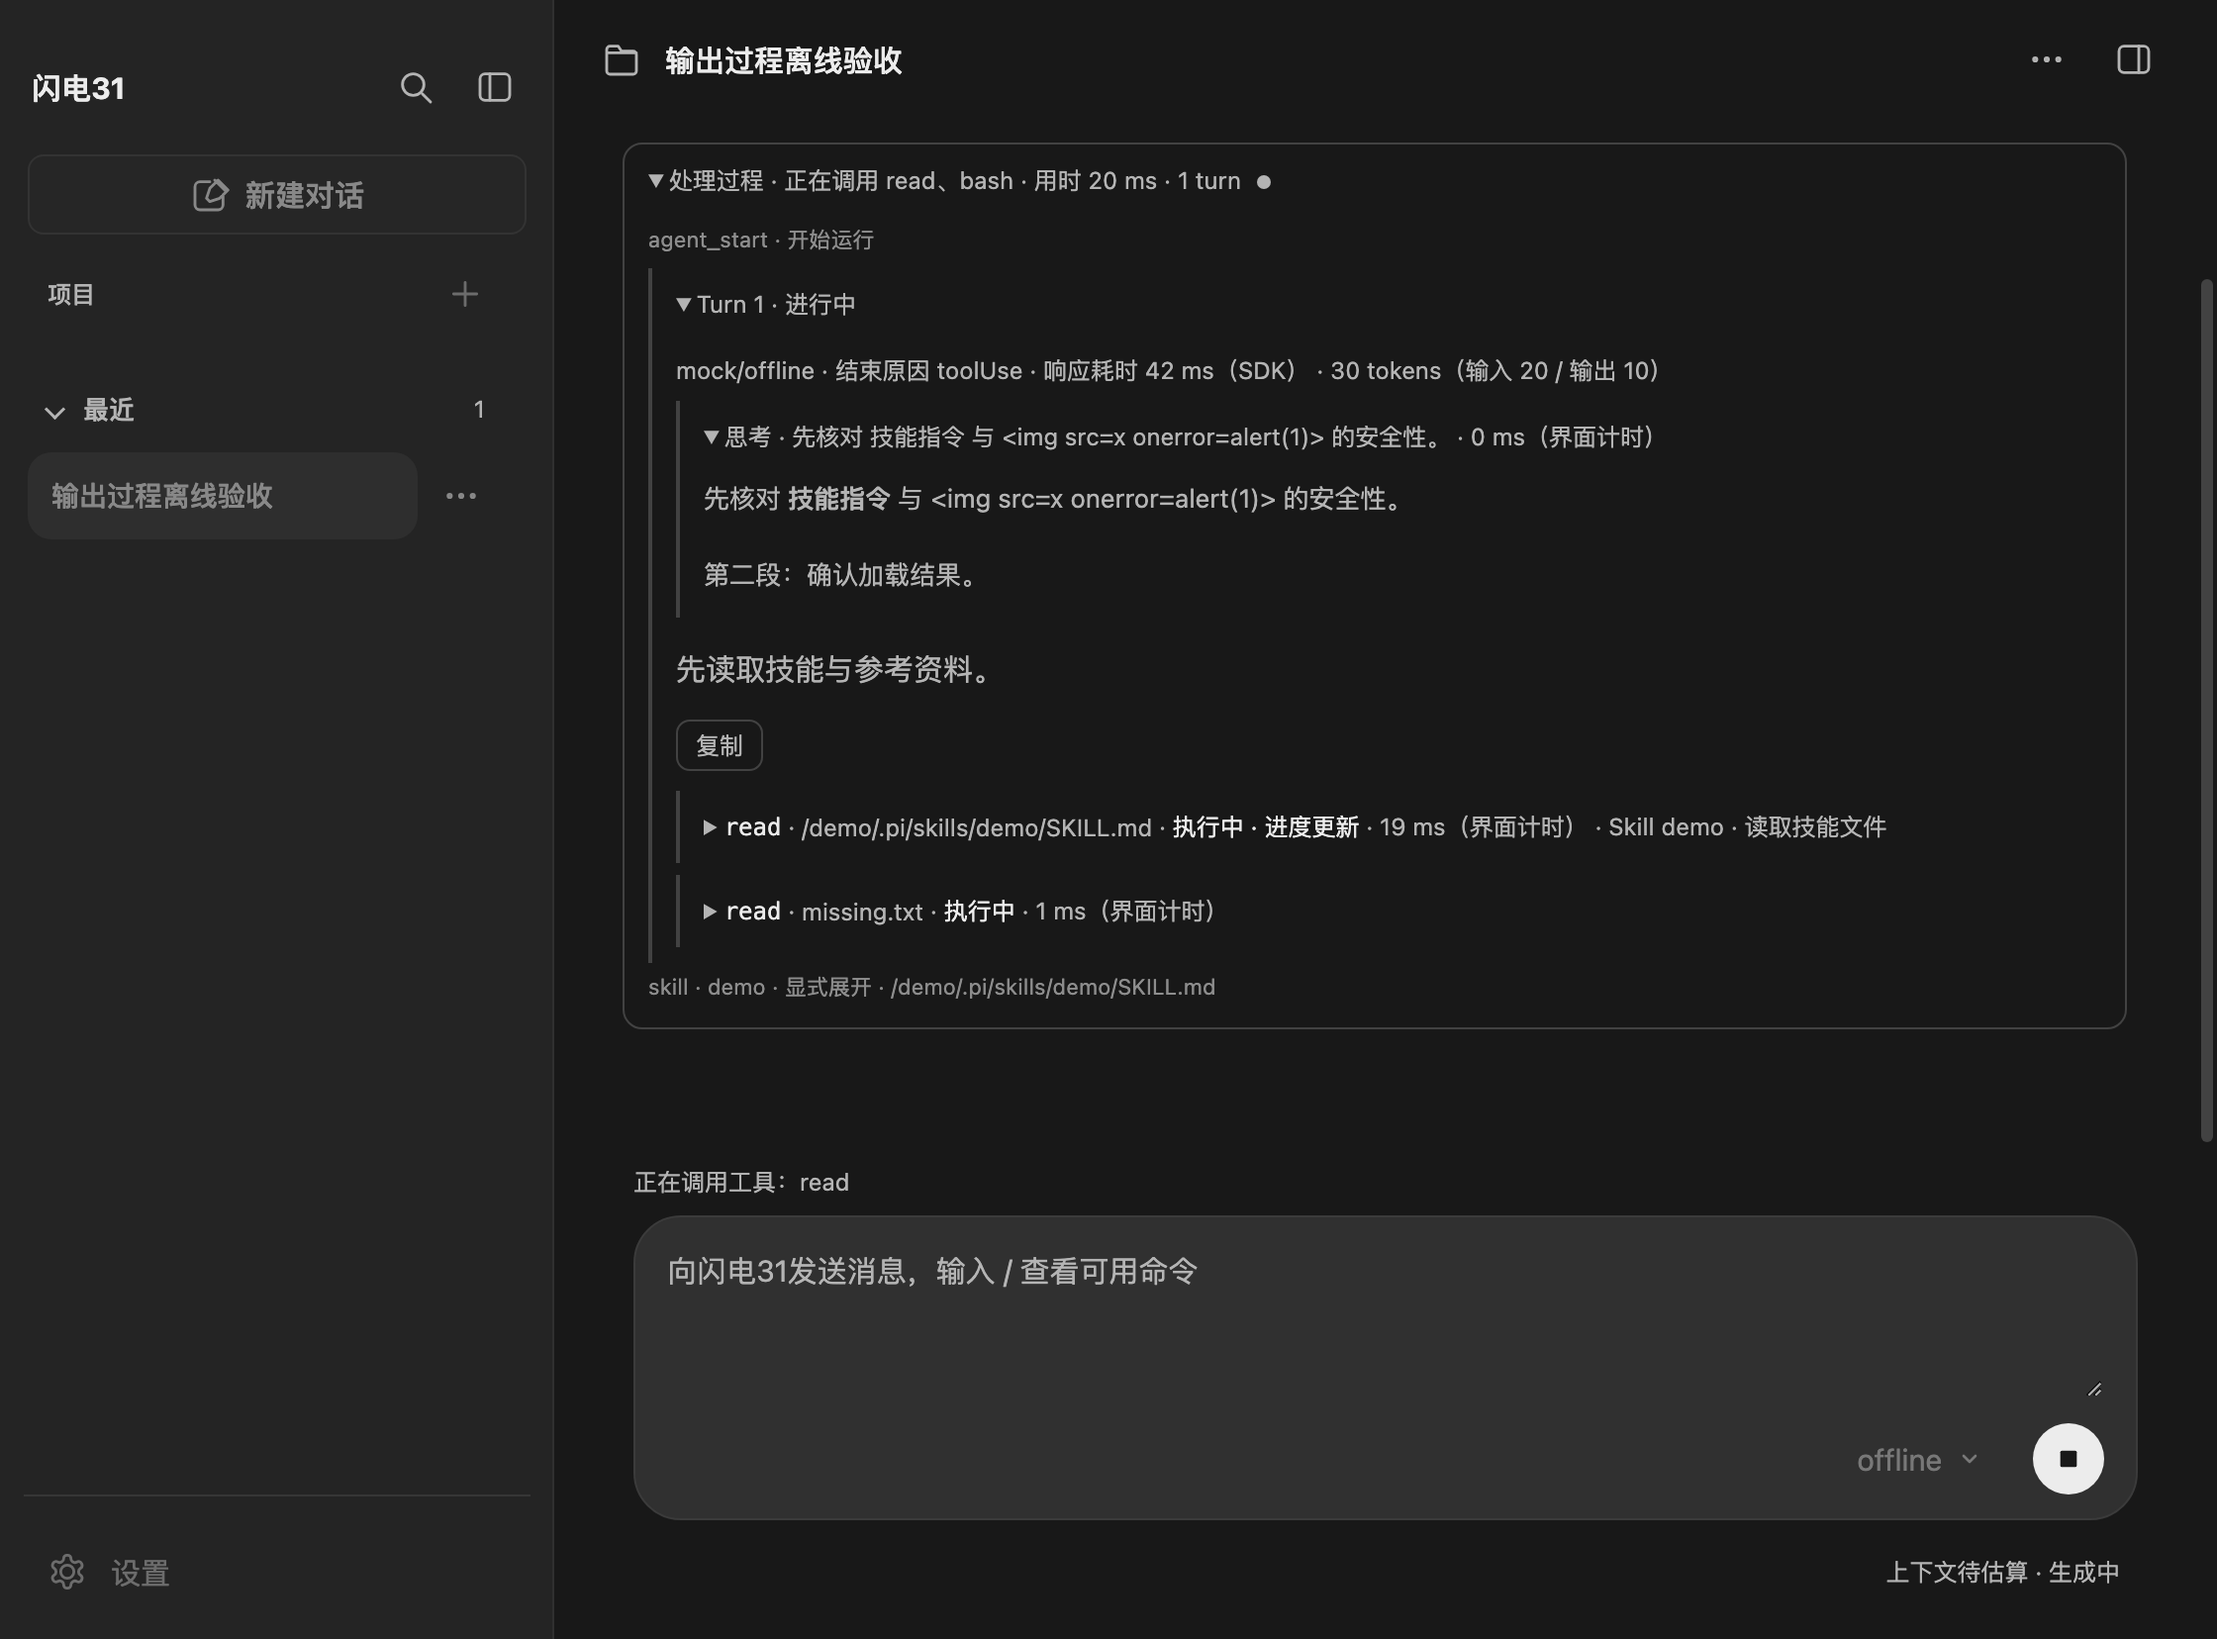
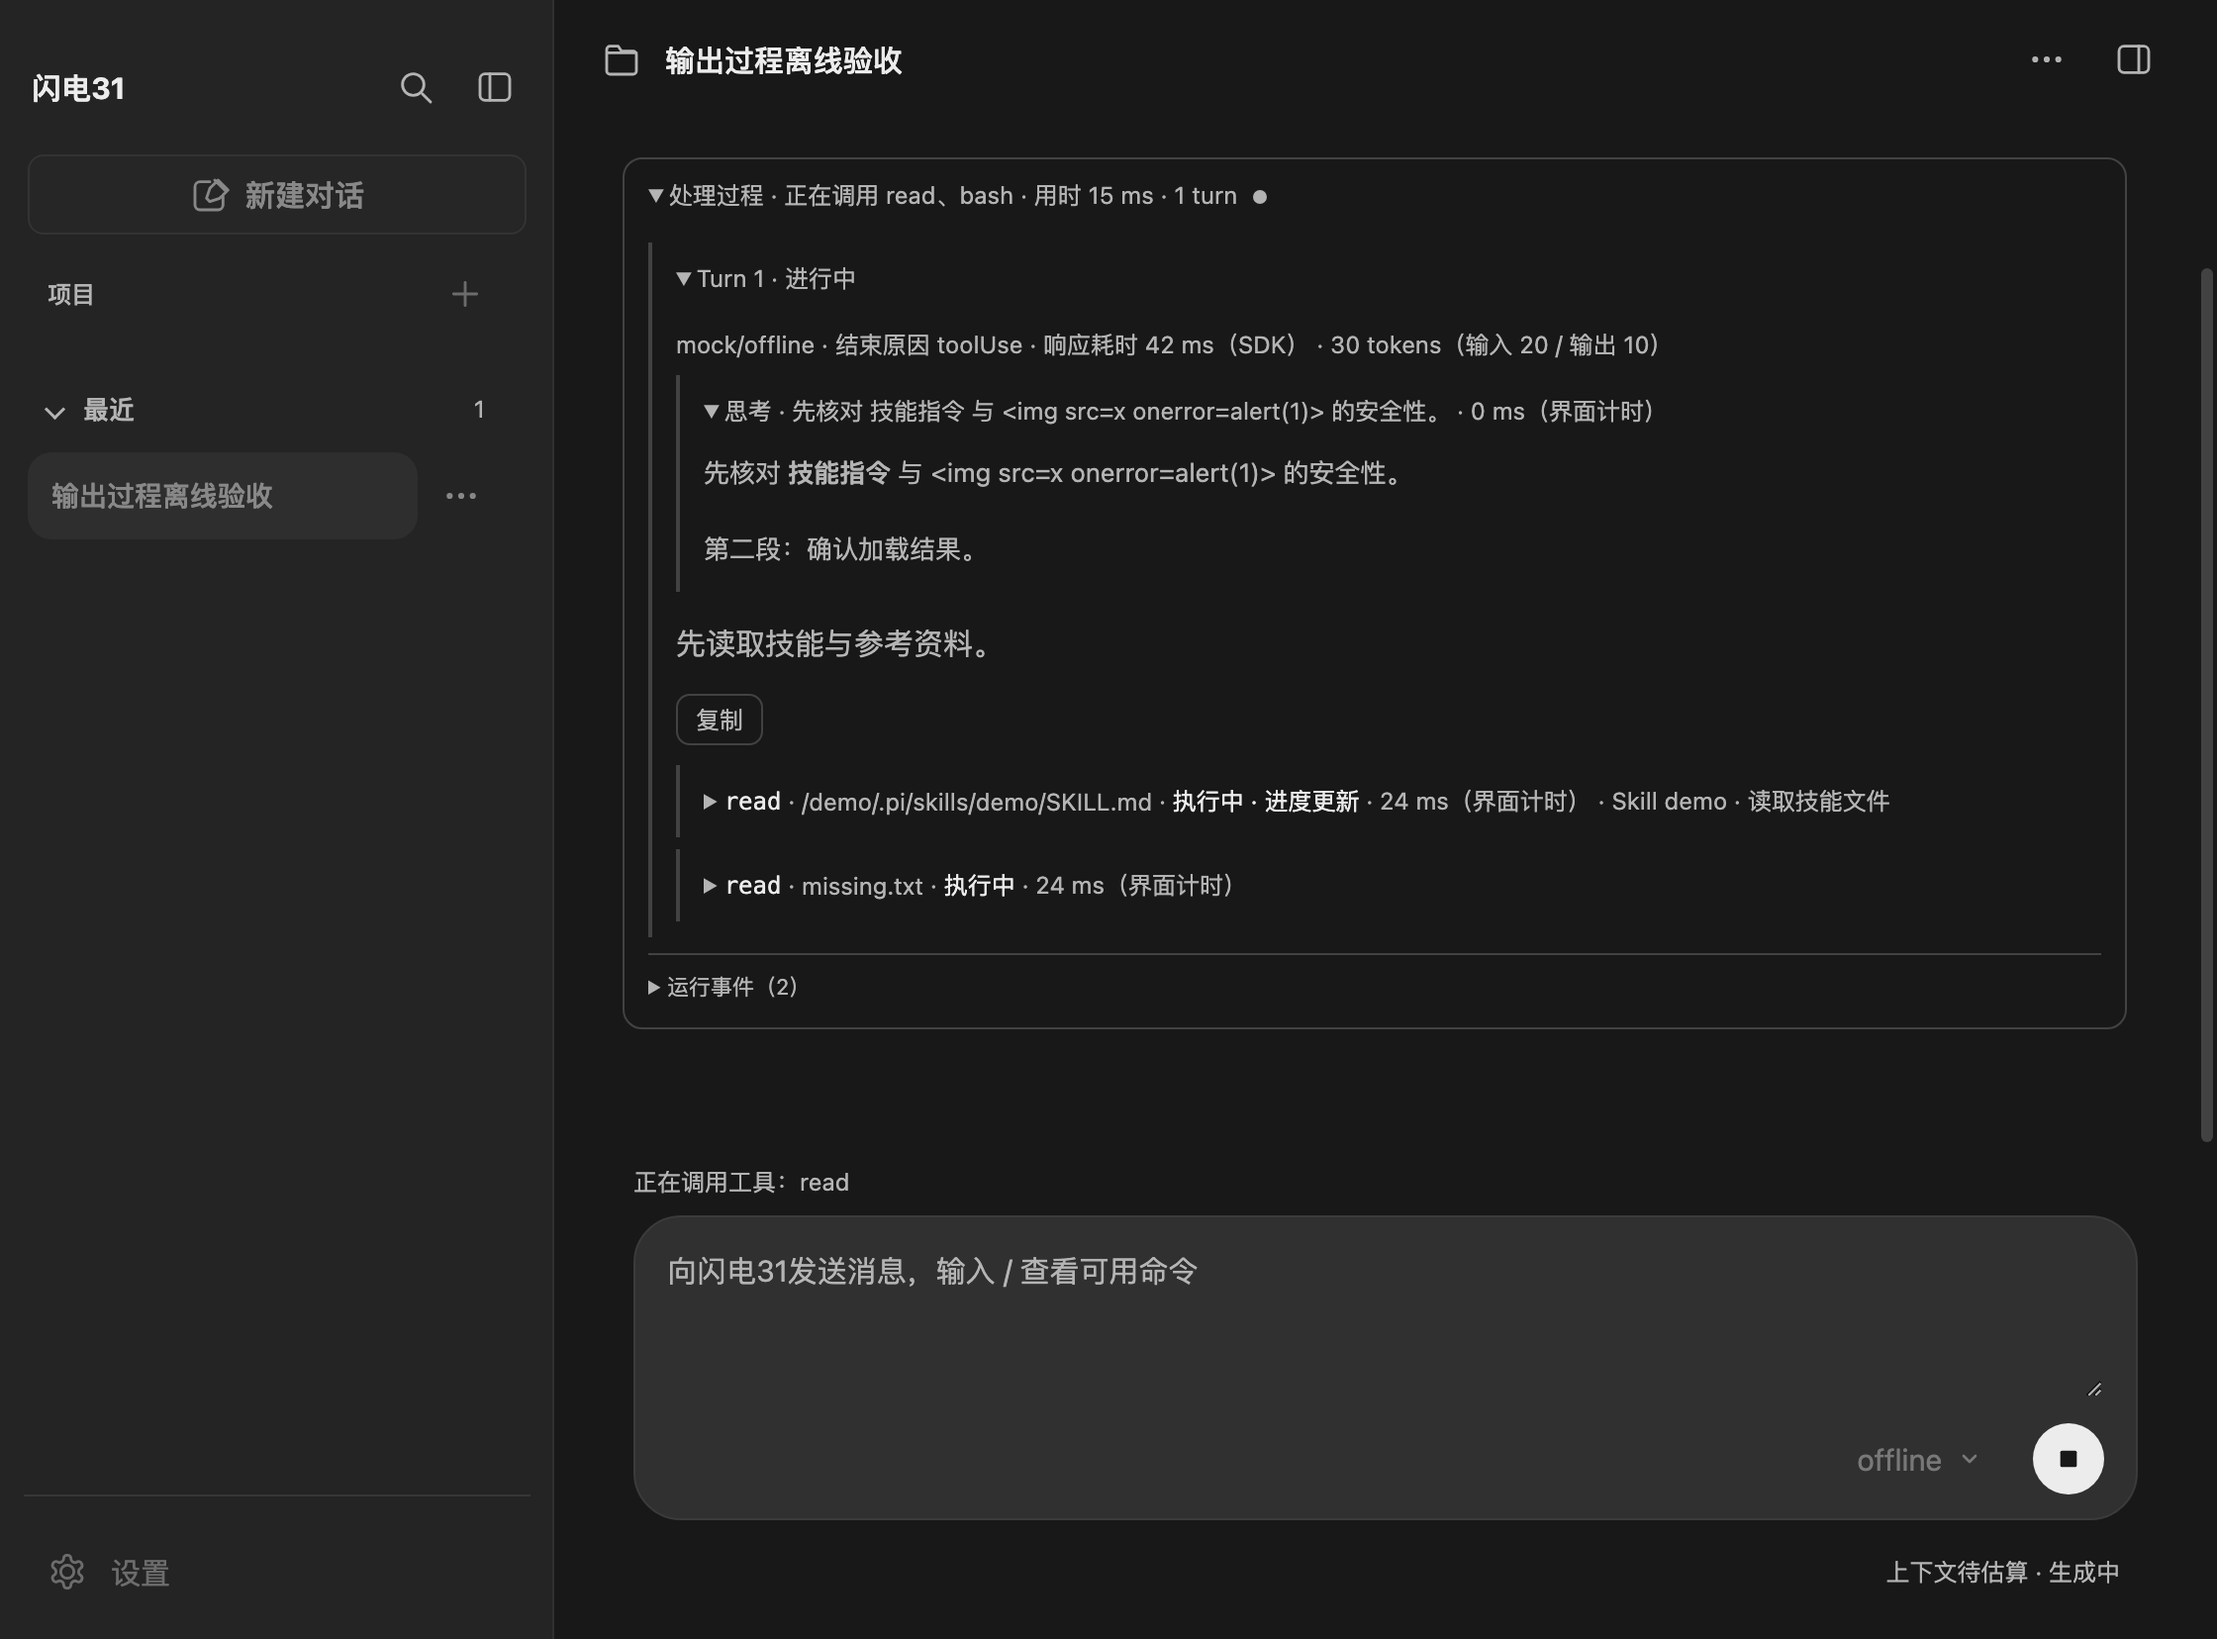
把运行事件收进折叠区，减少处理过程噪音

Changed region(s): [[0.2812, 0.0924, 0.8438, 0.6159]]

diff --git a/src/renderer/components/output-trace.js b/src/renderer/components/output-trace.js
@@ -252,8 +252,21 @@ export function createOutputTrace(container, { historical = false, onUpdate = ()
     if (frame === undefined) frame = requestAnimationFrame(flush);
   }
 
+  // 运行事件是诊断信息，收进折叠区，不打断回复与工具行的阅读。
+  let events;
   function lifecycle(type, label) {
-    trace.body.append(element("p", "trace-event", `${type} · ${label}`));
+    if (!events) {
+      const node = element("details", "trace-events");
+      const summary = element("summary");
+      const body = element("div", "trace-events-body");
+      node.append(summary, body);
+      events = { node, summary, body, count: 0 };
+    }
+    events.count += 1;
+    events.body.append(element("p", "trace-event", `${type} · ${label}`));
+    events.summary.textContent = `运行事件（${events.count}）`;
+    // 始终保持在其他内容之后，事件到达顺序不影响位置。
+    trace.body.append(events.node);
   }
 
   function startTurn() {

diff --git a/src/renderer/styles/output-trace.css b/src/renderer/styles/output-trace.css
@@ -76,6 +76,23 @@
   line-height: 1.6;
 }
 
+/* 运行事件收进折叠区，展开后仍是旁注样式。 */
+.output-trace .trace-events {
+  margin-top: 8px;
+  padding-top: 4px;
+  border-top: 1px solid var(--border);
+}
+
+.output-trace .trace-events > summary {
+  padding: 4px 0;
+  color: var(--muted);
+  font-size: 11px;
+}
+
+.output-trace .trace-events-body {
+  padding-bottom: 4px;
+}
+
 /* 生命周期事件是旁注，视觉上弱于思考与工具行。 */
 .output-trace .trace-event {
   margin: 4px 0;
